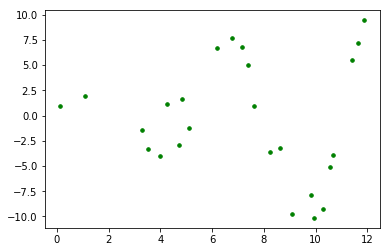
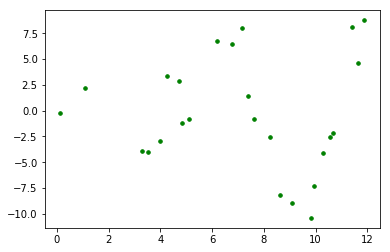
made markdown of solutions match master

diff --git a/README.md b/README.md
@@ -13,10 +13,7 @@ You will be able to:
 
 ## Create the best plot using polynomials!
 
-Below, we created a plot with a clearly non-linear shape.
-
-- plot a polynomial function using `PolynomialFeatures` for polynomials up until the second, third and fourth degree.
-- print out the $R^2$ value for each of the three results. Draw conclusions with respect to which degree is best.
+Here is a plot with a clearly non-linear shape. Begin to think about what degree polynomial you believe will fit it best.
 
 
 ```python
@@ -41,6 +38,10 @@ plt.show();
 
 ![png](index_files/index_7_0.png)
 
+
+Now it's time to determine the optimal degree of polynomial features for a model that is fit to this data
+* Plot a polynomial function using PolynomialFeatures for polynomials up until the second, third and fourth degree. Make sure to label each degree polynomial in your plot.
+* Print out the $R^2$ value for each of the three results. Draw conclusions with respect to which degree is best.
 
 ## Solution
 
@@ -85,15 +86,17 @@ for index, degree in enumerate([2,3,4]):
 
 plt.legend(loc='lower left')
 plt.show();
+
+# The third degree polynomial performed the best
 ```
 
-    degree 2 0.013285175914231284
-    degree 3 0.9126341307899343
-    degree 4 0.8609275710964498
+    degree 2 0.008246521737270918
+    degree 3 0.8158919334827324
+    degree 4 0.8982073447866386
 
 
 
-![png](index_files/index_9_1.png)
+![png](index_files/index_10_1.png)
 
 
 ## Summary
